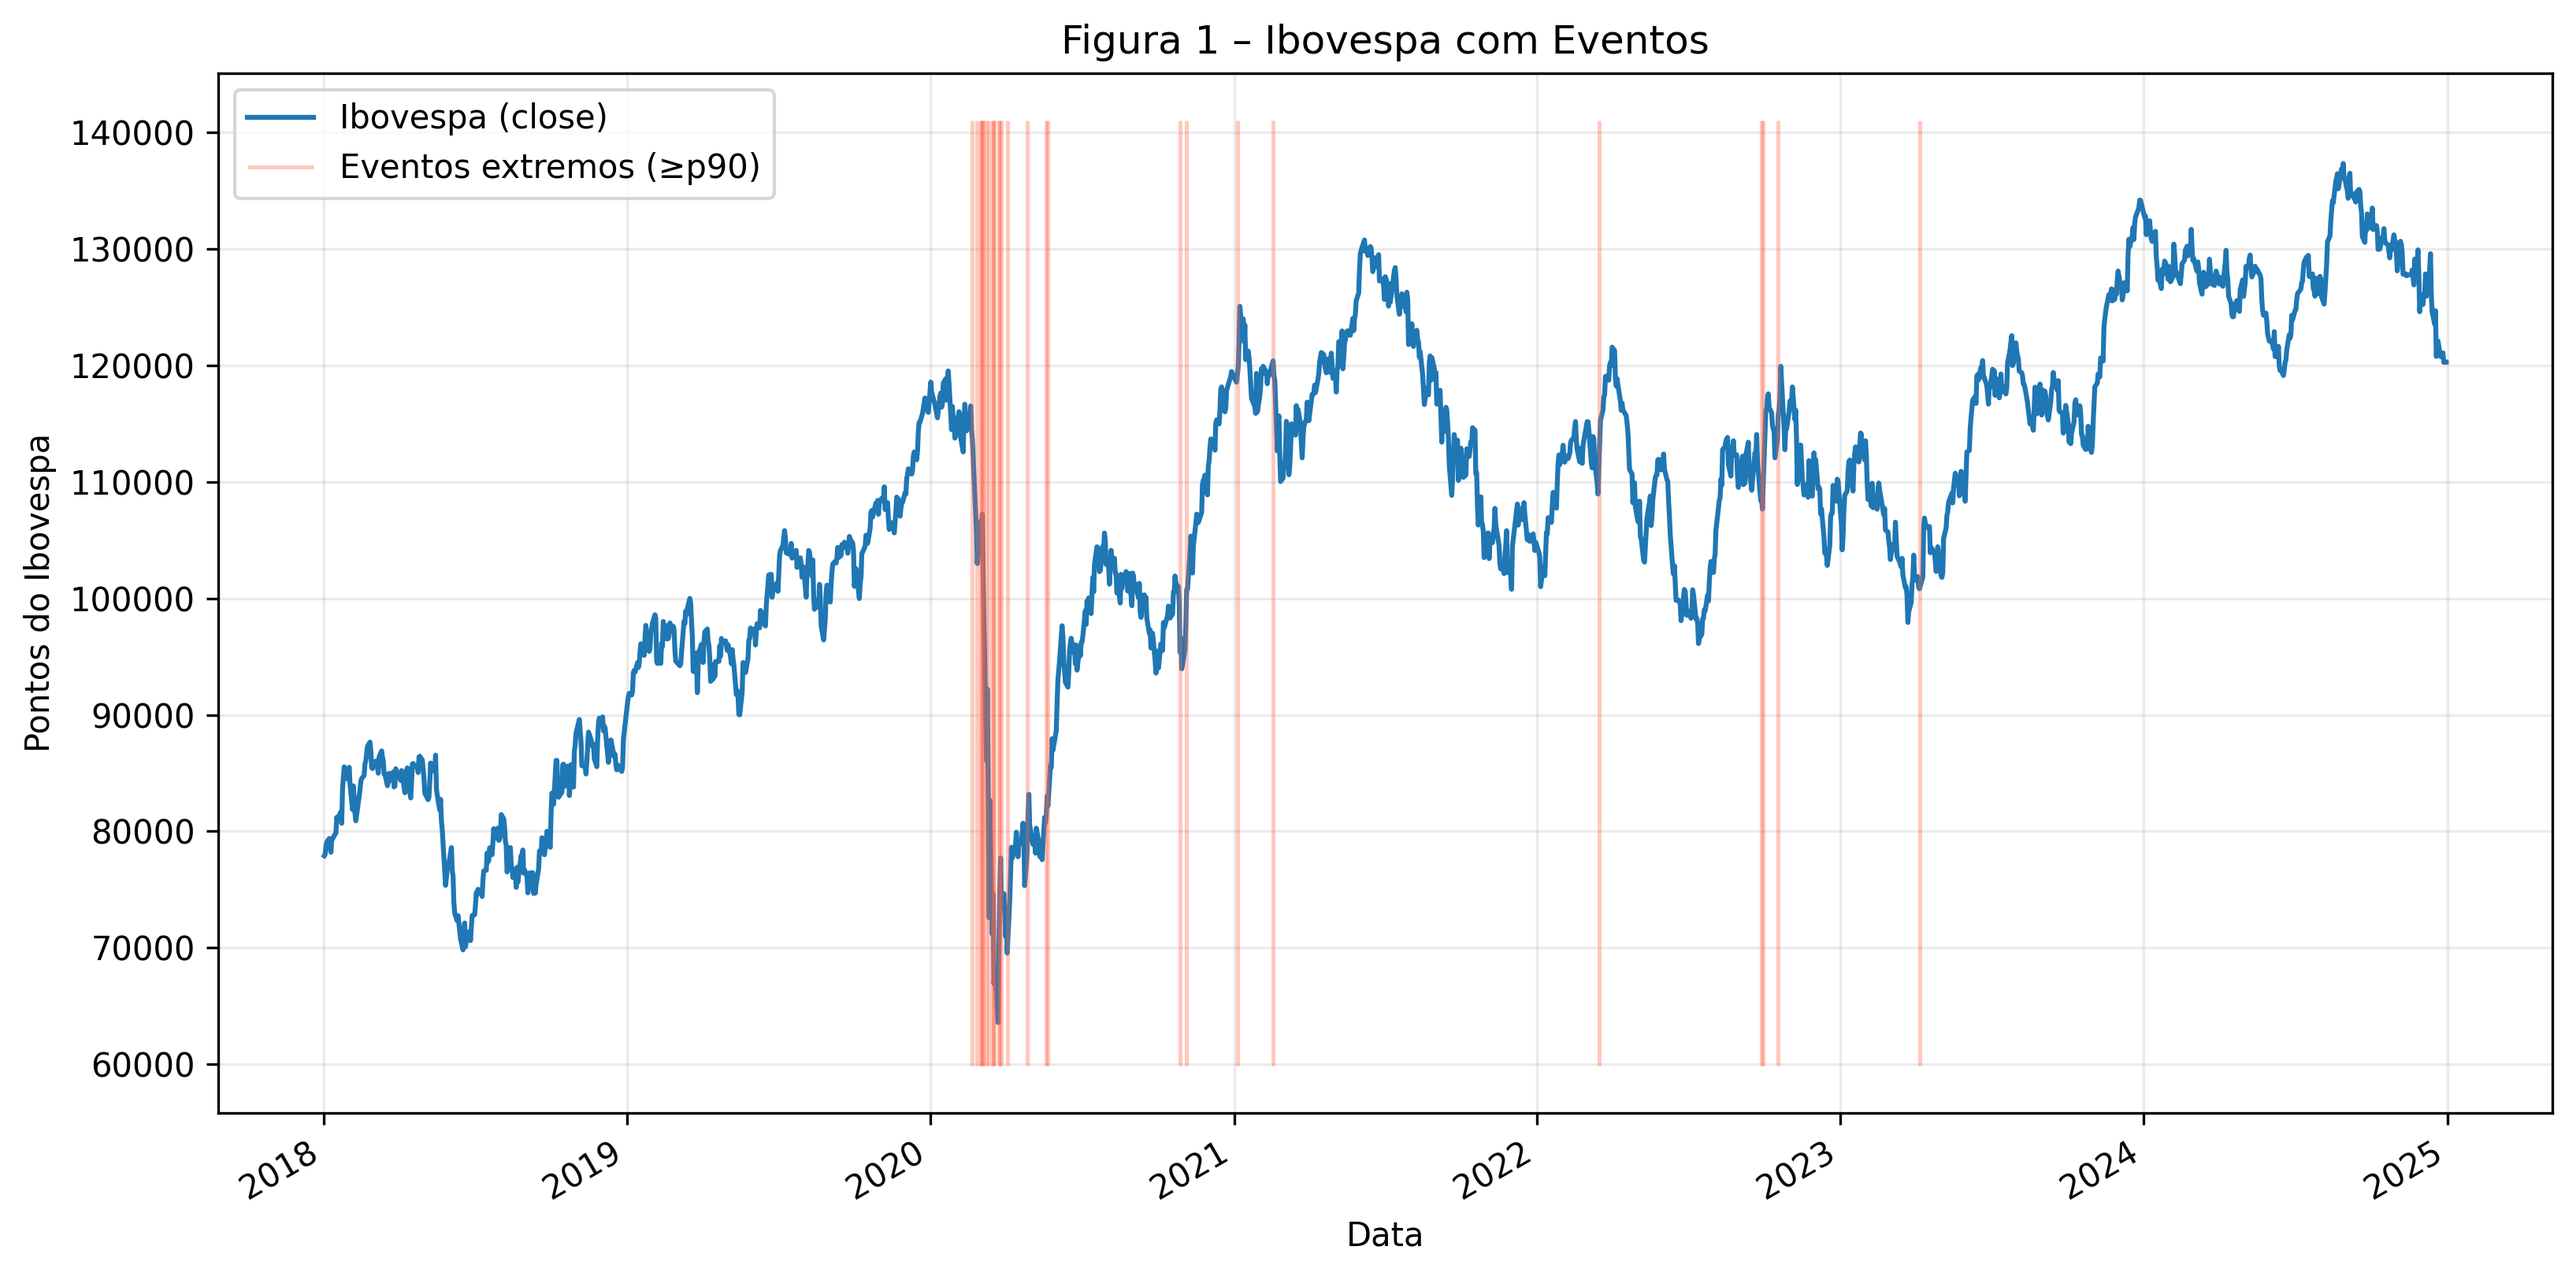
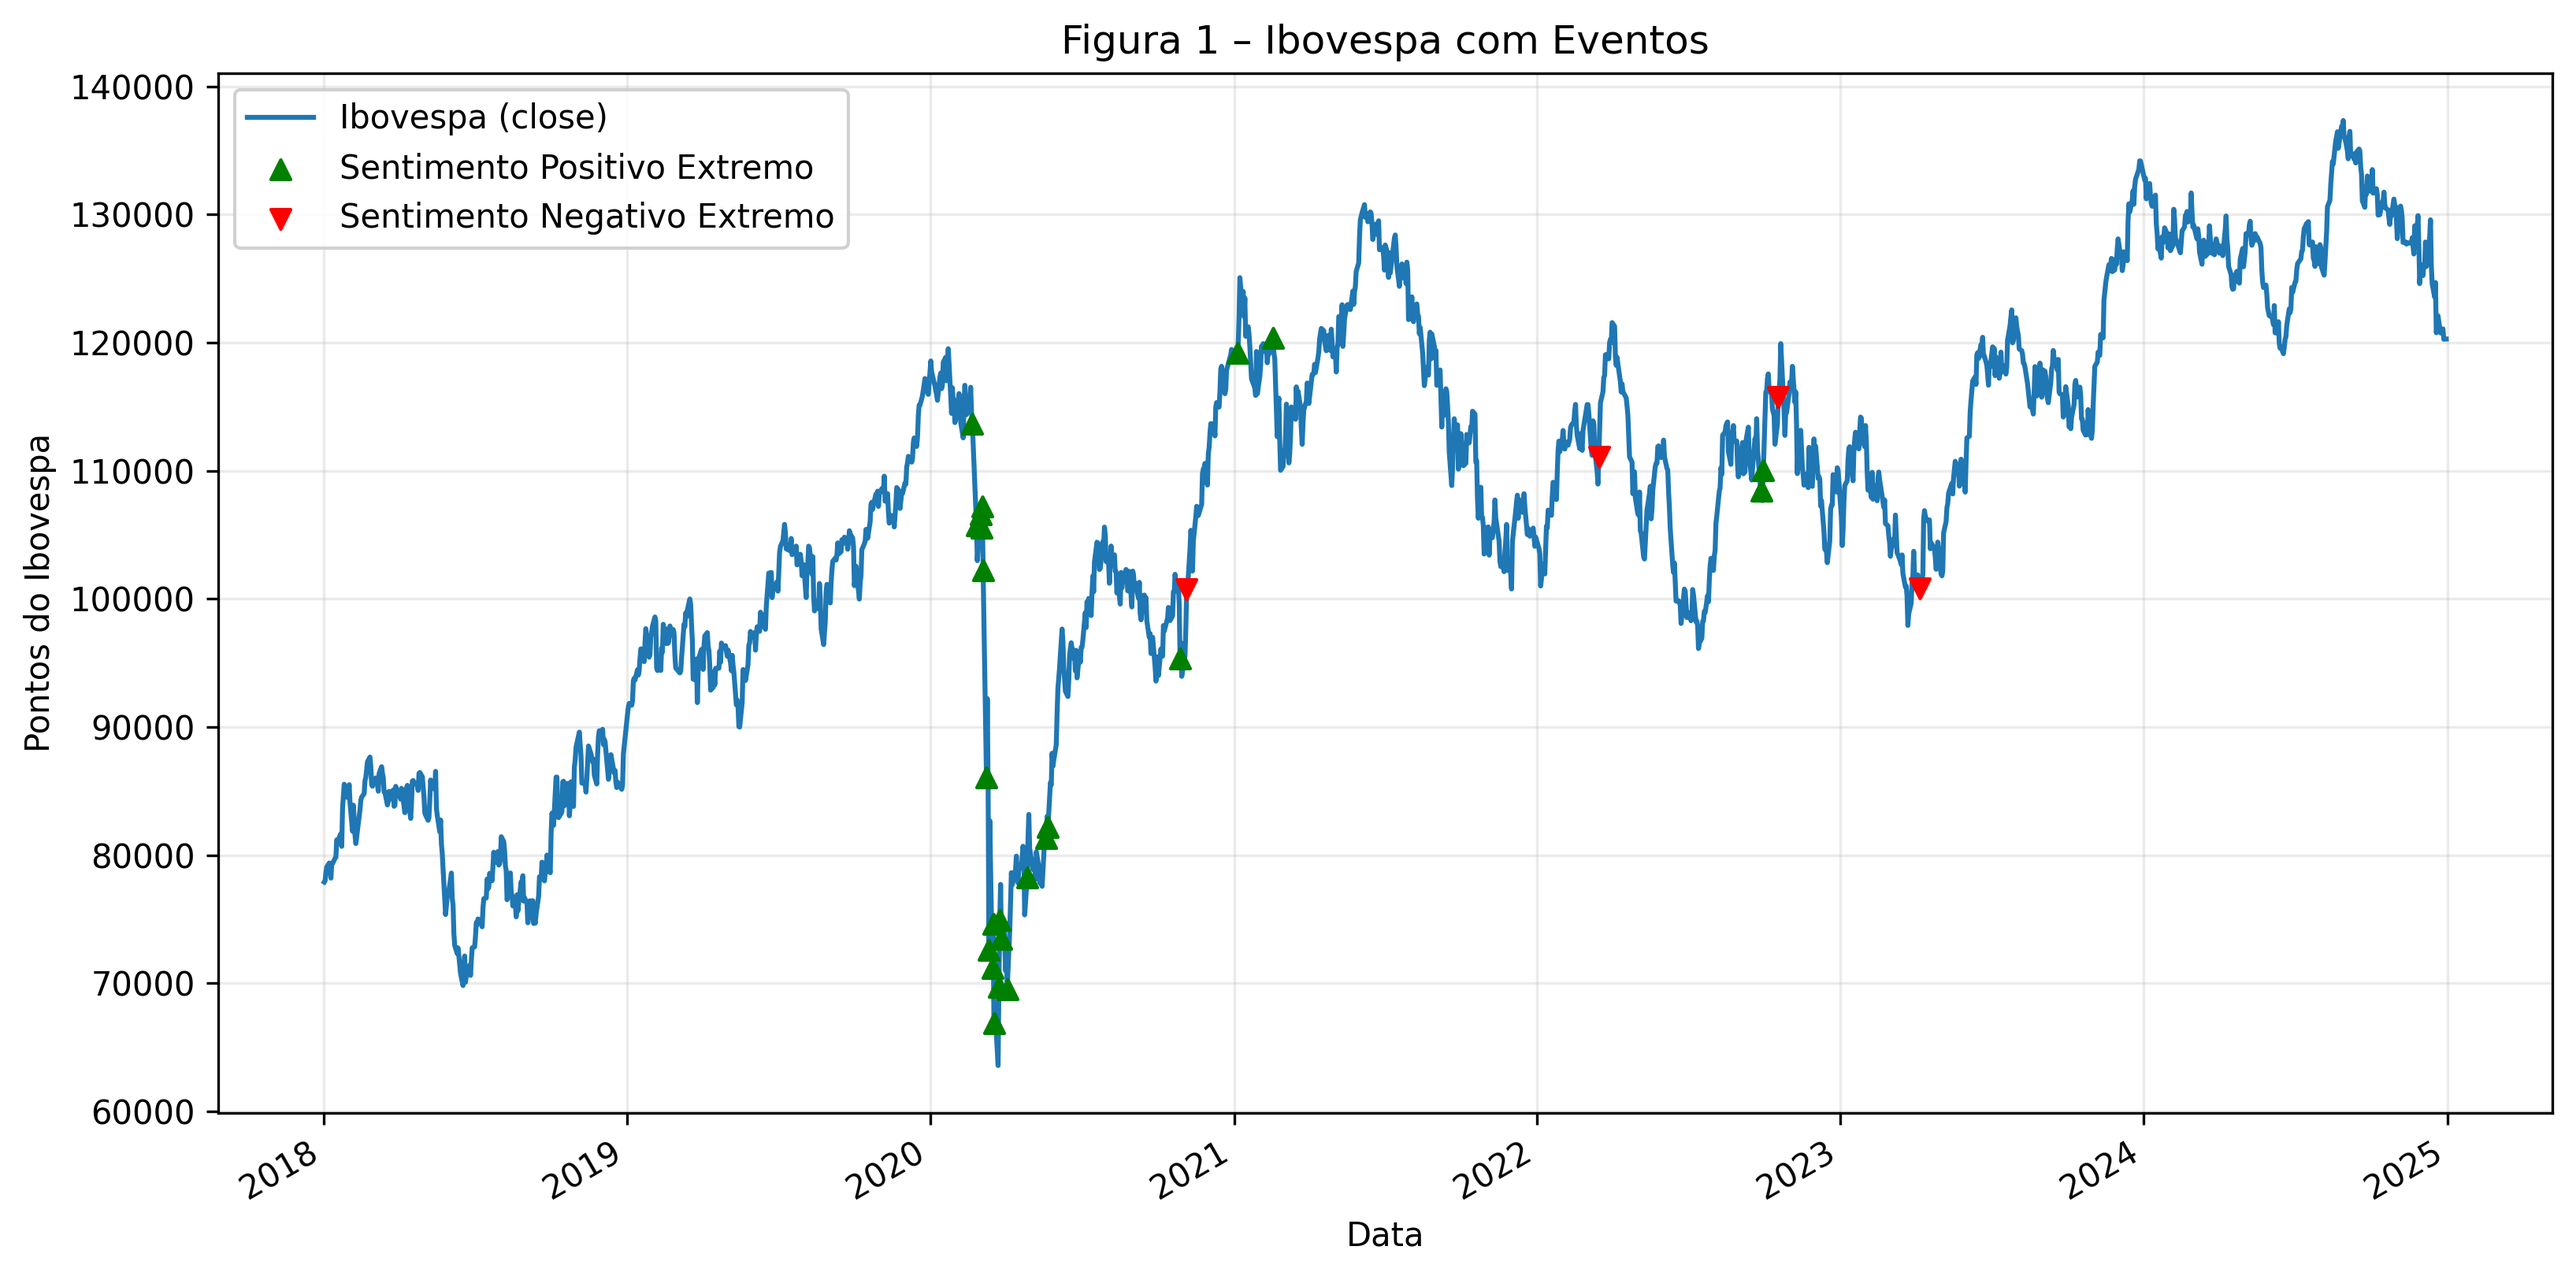
fix(figures): add event legend and CAR label; annotate sharpe

diff --git a/scripts/export_tcc_figures.py b/scripts/export_tcc_figures.py
@@ -273,13 +273,19 @@ def figure_ibov_events(ibov: pd.DataFrame, events: pd.DataFrame) -> None:
     ax.plot(ibov["day"], ibov["close"], color="#1f77b4", label="Ibovespa (close)")
     if not events.empty:
         thresh = events["car_max_abs"].quantile(0.9)
-        extreme = events.loc[events["car_max_abs"] >= thresh]
-        ymin, ymax = ax.get_ylim()
-        ax.vlines(extreme["event_day"], ymin=ymin, ymax=ymax, colors="tomato", alpha=0.35, linewidth=1.2, label="Eventos extremos (≥p90)")
+        extreme = events.loc[events["car_max_abs"] >= thresh].copy()
+        if not extreme.empty:
+            merged = extreme.merge(ibov[["day", "close"]], left_on="event_day", right_on="day", how="left").dropna(subset=["close"])
+            pos = merged[merged["polarity"] == "pos"]
+            neg = merged[merged["polarity"] == "neg"]
+            if not pos.empty:
+                ax.scatter(pos["event_day"], pos["close"], marker="^", color="green", label="Sentimento Positivo Extremo", zorder=5)
+            if not neg.empty:
+                ax.scatter(neg["event_day"], neg["close"], marker="v", color="red", label="Sentimento Negativo Extremo", zorder=5)
     ax.set_title("Figura 1 – Ibovespa com Eventos")
     ax.set_xlabel("Data")
     ax.set_ylabel("Pontos do Ibovespa")
-    ax.legend()
+    ax.legend(loc="upper left", framealpha=0.9)
     ax.grid(alpha=0.25)
     fig.autofmt_xdate()
     fig.tight_layout()
@@ -356,7 +362,7 @@ def figure_latency(events: pd.DataFrame) -> None:
     ax.boxplot(groups, labels=["pos", "neg"], showmeans=True, meanline=True, patch_artist=True, boxprops=dict(facecolor="#a6cee3"), medianprops=dict(color="black"), meanprops=dict(color="red"))
     ax.set_title("Figura 7A – CAR por polaridade (boxplot)")
     ax.set_xlabel("Polaridade")
-    ax.set_ylabel("CAR")
+    ax.set_ylabel("Retorno Anormal Acumulado (CAR)")
     ax.grid(alpha=0.2)
     fig.tight_layout()
     _savefig(fig, OUTPUT_DIR / "Figura_7A_latencia_boxplot.png")
@@ -455,9 +461,21 @@ def figure_comparativo(backtest_stats: Dict[str, Dict[str, float]], strategy_nam
     if len(data["model"].unique()) < 2:
         raise RuntimeError("Figura 3: não foram encontradas duas linhas de Sharpe para a estratégia.")
     fig, ax = plt.subplots(figsize=(9, 5), dpi=300)
-    ax.bar(data["model"], data["sharpe"], color=["#2ca02c", "#1f77b4"])
-    for idx, row in data.iterrows():
-        ax.text(idx, row["sharpe"], f"{row['sharpe']:.3f}", ha="center", va="bottom")
+    bars = ax.bar(data["model"], data["sharpe"], color=["#2ca02c", "#1f77b4"])
+    for bar in bars:
+        height = bar.get_height()
+        offset = 3 if height >= 0 else -12
+        va = "bottom" if height >= 0 else "top"
+        ax.annotate(
+            f"{height:.2f}",
+            xy=(bar.get_x() + bar.get_width() / 2, height),
+            xytext=(0, offset),
+            textcoords="offset points",
+            ha="center",
+            va=va,
+            fontsize=10,
+            fontweight="bold",
+        )
     ax.set_ylabel("Sharpe")
     ax.set_title(f"Figura 3 – Comparativo de Modelos (Sharpe) | Estratégia: {strategy_name}")
     ax.grid(axis="y", alpha=0.25)
